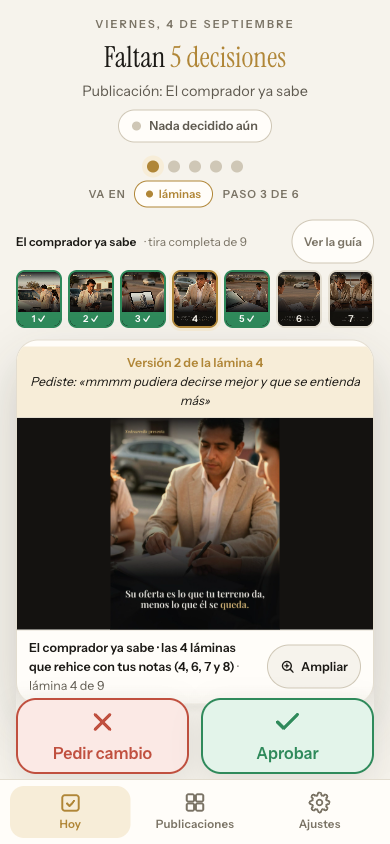
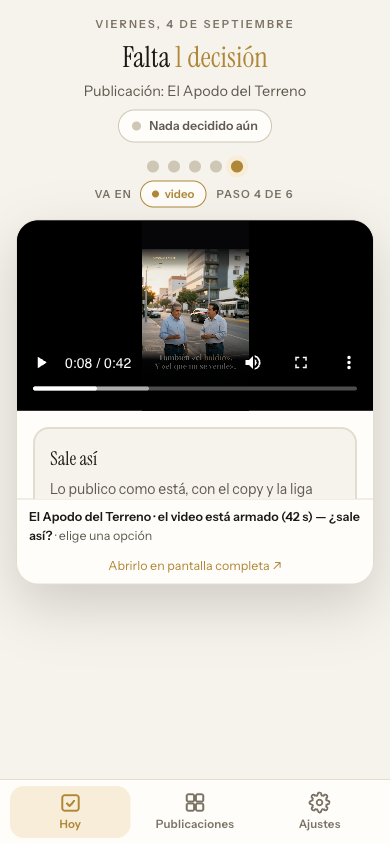
Ajustes: «Probar mi conexion» dice si el Sheet te lee, si te deja escribir y que contesta exactamente

diff --git a/index.html b/index.html
@@ -1244,15 +1244,45 @@ function pintarAjustes(){
       <p class="aviso" id="ajAviso"></p>
       <div id="ajRecados"></div></div>
     <div class="bloque-aj"><h4>Automáticos</h4><p>Lo que corre solo mientras nadie mira.</p><button class="secund" id="ajMaq">Ver qué está corriendo</button><div id="ajMaqLista"></div></div>`:''}
+    <div class="bloque-aj"><h4>Revisar la conexión</h4>
+      <p>Si algo no se guarda, esto dice exactamente qué contesta el Sheet.</p>
+      <button class="secund" style="margin-top:0" id="ajDiag">Probar mi conexión</button>
+      <div id="ajDiagRes"></div></div>
     <div class="bloque-aj"><h4>Ayuda</h4><p>${ENTRADO()?'Si algo no carga, cierra y vuelve a abrir la Sala.':'Tu entrada es una liga personal. Si ya habías entrado en este aparato, puedes recuperarla:'}</p>
       ${ENTRADO()?'':`<a class="secund" style="display:grid;place-items:center;text-decoration:none;margin-top:0" href="${ORIGEN_VIEJO}#puente=1" ${EMBED()?'target="_blank"':'target="_top"'} rel="noopener">Recuperar mi entrada</a>`}
       <p style="margin:10px 0 0;font-size:12.5px"><a href="index-v2.html" style="display:inline-flex;align-items:center;min-height:44px">Abrir la Sala anterior</a></p></div>`;
   const be=$('#ajEntrar'); if(be) be.onclick=abrirEntrar;
   $('#ajGuia').onclick=()=>abrirGuia(true);
   const bm=$('#ajMaq'); if(bm) bm.onclick=pintarMaquinas;
+  const bd=$('#ajDiag'); if(bd) bd.onclick=diagnostico;
   const env=$('#ajEnviar'); if(env) env.onclick=()=>mandarProduccion('RETRO',$('#ajMsg').value.trim()||'',true);
   const rd=$('#ajRonda'); if(rd) rd.onclick=()=>mandarProduccion('ENCARGO · corre la sala',$('#ajMsg').value.trim()||'Corre la sala.',false);
   pintarRecados();
+}
+/* Diagnóstico de un toque: lee, escribe una prueba y enseña la respuesta cruda.
+   Nació el 4-sep porque 4 decisiones se quedaron en cola sin que nadie supiera por qué. */
+async function diagnostico(){
+  const c=$('#ajDiagRes'); const li=[];
+  const pon=()=>{ c.innerHTML=li.map(x=>`<div class="maq ${x[0]}"><b><i></i>${esc(x[1])}</b><small>${esc(x[2])}</small></div>`).join('') };
+  li.push(['duda','Probando…','']); pon();
+  li.length=0;
+  li.push(['bien','Entrada', ENTRADO()?('sí · '+(PORLLAVE_OS()?'con tu cuenta del YOD OS':'con la liga de la Sala')):'NO has entrado']);
+  li.push([ENTRADO()?'bien':'mal','Rol que dices tener', ROL()]); pon();
+  try{
+    const r=await fetch(GAS()+'?recurso=dia&clave='+encodeURIComponent(CLAVE()));
+    const j=await leerJSON(r);
+    li.push([j&&j.rol?'bien':'mal','Leer del Sheet', j&&j.rol?('te reconoce como '+j.rol+(j.quien?' ('+j.quien+')':'')):('respondió: '+JSON.stringify(j).slice(0,120))]);
+  }catch(e){ li.push(['mal','Leer del Sheet','no contestó: '+(e.message||e)]) }
+  pon();
+  try{
+    const r=await fetch(GAS(),{method:'POST',headers:{'Content-Type':'text/plain'},
+      body:JSON.stringify({accion:'decidir',clave:CLAVE(),fecha:fecha,envio_id:'prueba-'+uuid(),ts:Date.now(),quien:ROL(),propuestas:{}})});
+    const j=await leerJSON(r);
+    li.push([j&&j.ok?'bien':'mal','Escribir en el Sheet', j&&j.ok?'sí puede guardar':('lo rechazó: '+((j&&j.error)||JSON.stringify(j)).slice(0,140))]);
+  }catch(e){ li.push(['mal','Escribir en el Sheet','no contestó: '+(e.message||e)]) }
+  const q=leerLS('sala_cola',[]);
+  li.push([q.length?'duda':'bien','Pendiente por subir', q.length?(q.length+' envío(s) esperando'):'nada']);
+  pon();
 }
 async function pintarRecados(){
   const c=$('#ajRecados'); if(!c) return;
